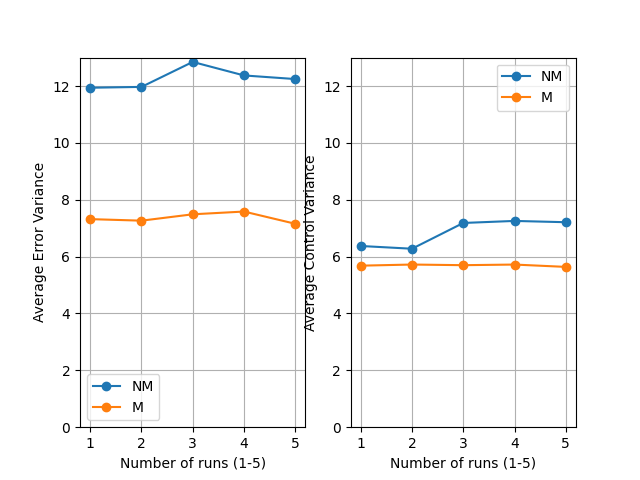
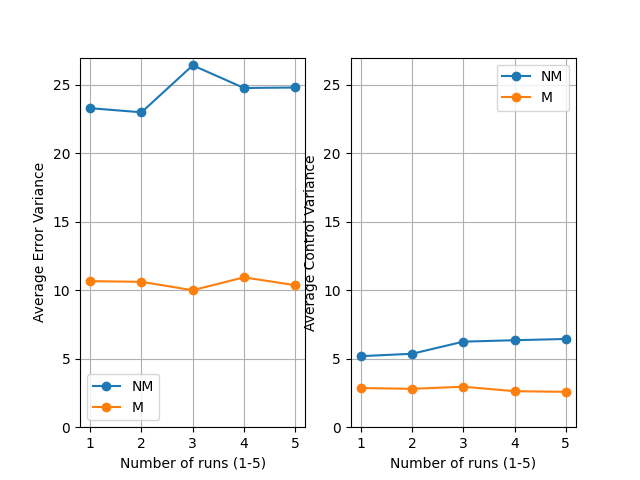
Added new file

diff --git a/Time_main.py b/Time_main.py
@@ -52,16 +52,16 @@ def average_variance_per_run(runs):
         average_variances.append(np.mean(run))
     return average_variances
 
-e_runs_NM = sort_into_test_runs('e',1,4)
+e_runs_NM = sort_into_test_runs('e',3,4)
 e_average_variances_NM = average_variance_per_run(e_runs_NM)
 
-e_runs_M = sort_into_test_runs('e',4,7)
+e_runs_M = sort_into_test_runs('e',6,7)
 e_average_variances_M = average_variance_per_run(e_runs_M)
 
-u_runs_NM = sort_into_test_runs('u',1,4)
+u_runs_NM = sort_into_test_runs('u',3,4)
 u_average_variances_NM = average_variance_per_run(u_runs_NM)
 
-u_runs_M = sort_into_test_runs('u',4,7)
+u_runs_M = sort_into_test_runs('u',6,7)
 u_average_variances_M = average_variance_per_run(u_runs_M)
 
 #Checking data
@@ -113,7 +113,7 @@ print(len(average_variances_u_M))
 # Plotting
 run = [1, 2, 3, 4, 5]
 plt.subplot(1, 2, 1)
-plt.ylim(0,13)
+plt.ylim(0,27)
 plt.xlabel("Number of runs (1-5)")
 plt.ylabel("Average Error Variance")
 plt.grid()
@@ -122,7 +122,7 @@ plt.plot(run, e_average_variances_M, marker="o", label="M")
 
 plt.legend()
 plt.subplot(1, 2, 2)
-plt.ylim(0,13)
+plt.ylim(0,27)
 plt.xlabel("Number of runs (1-5)")
 plt.ylabel("Average Control Variance")
 plt.grid()
